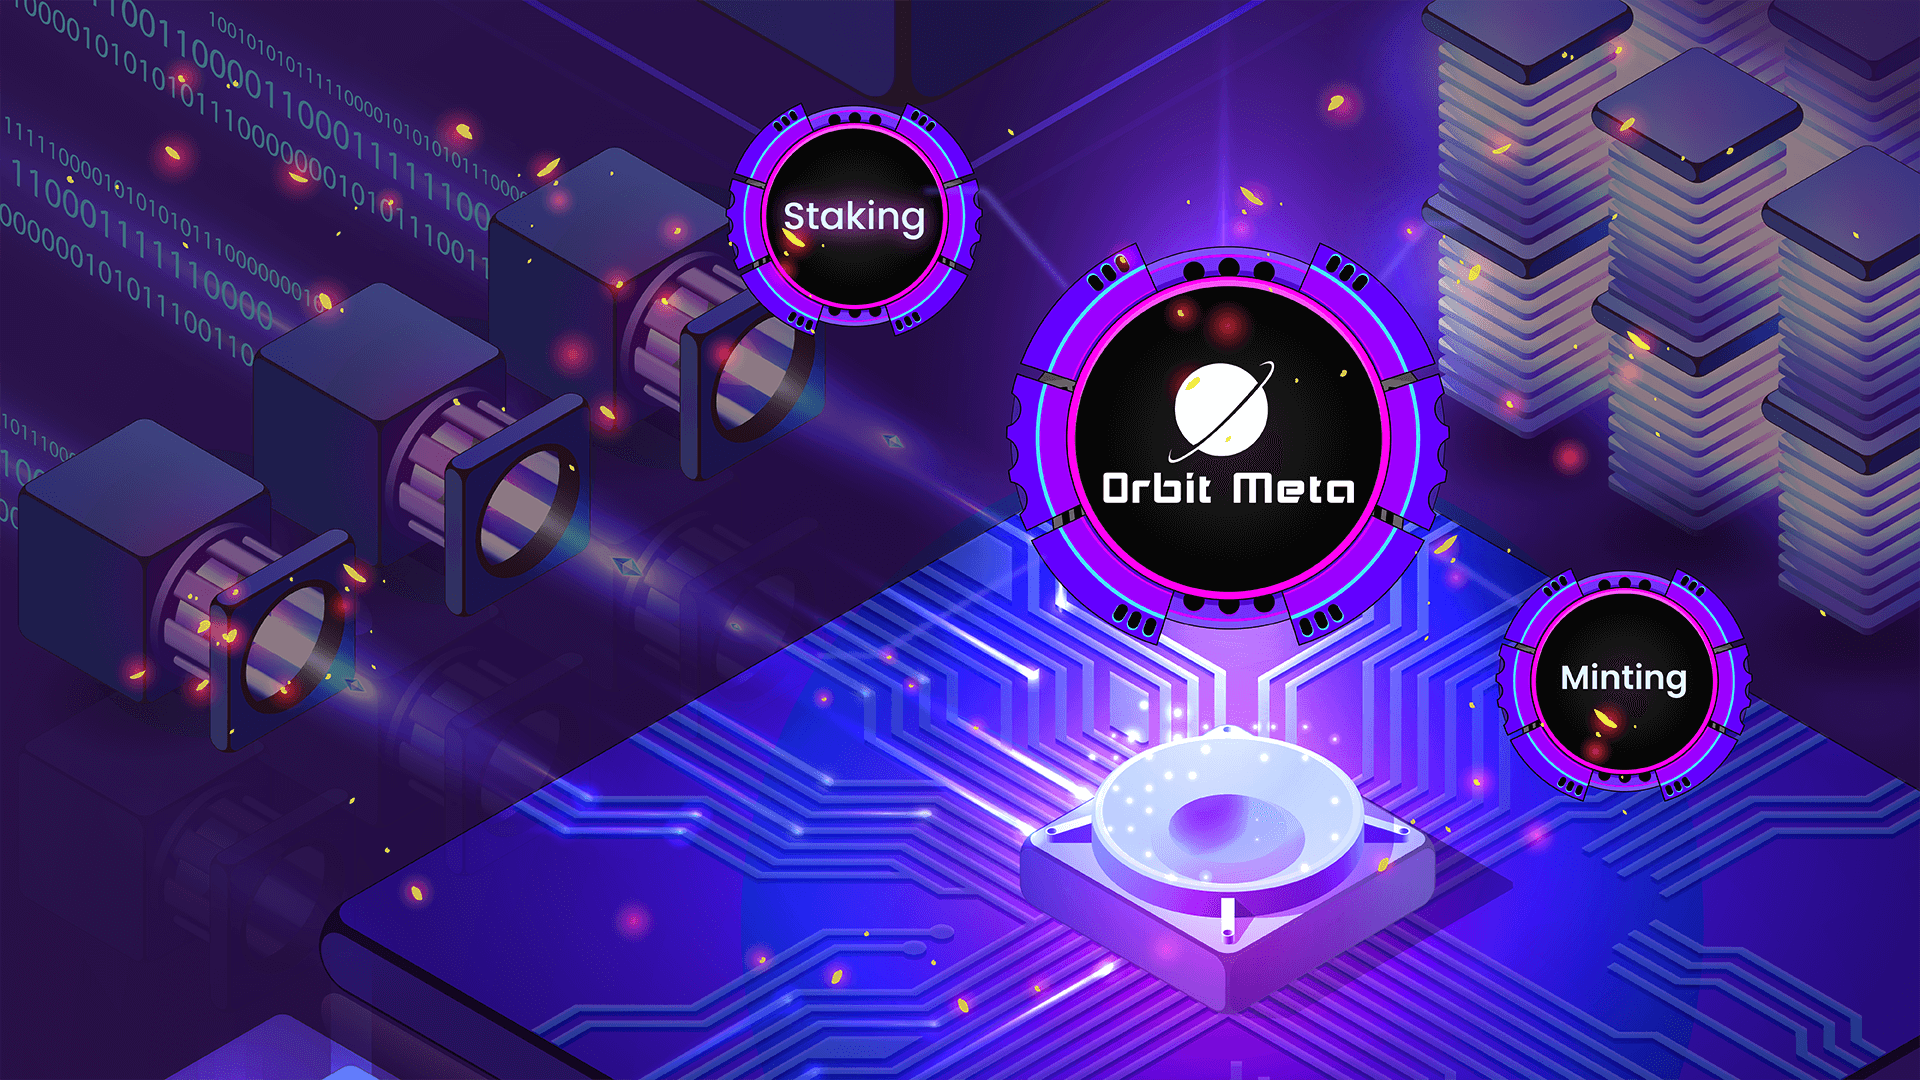
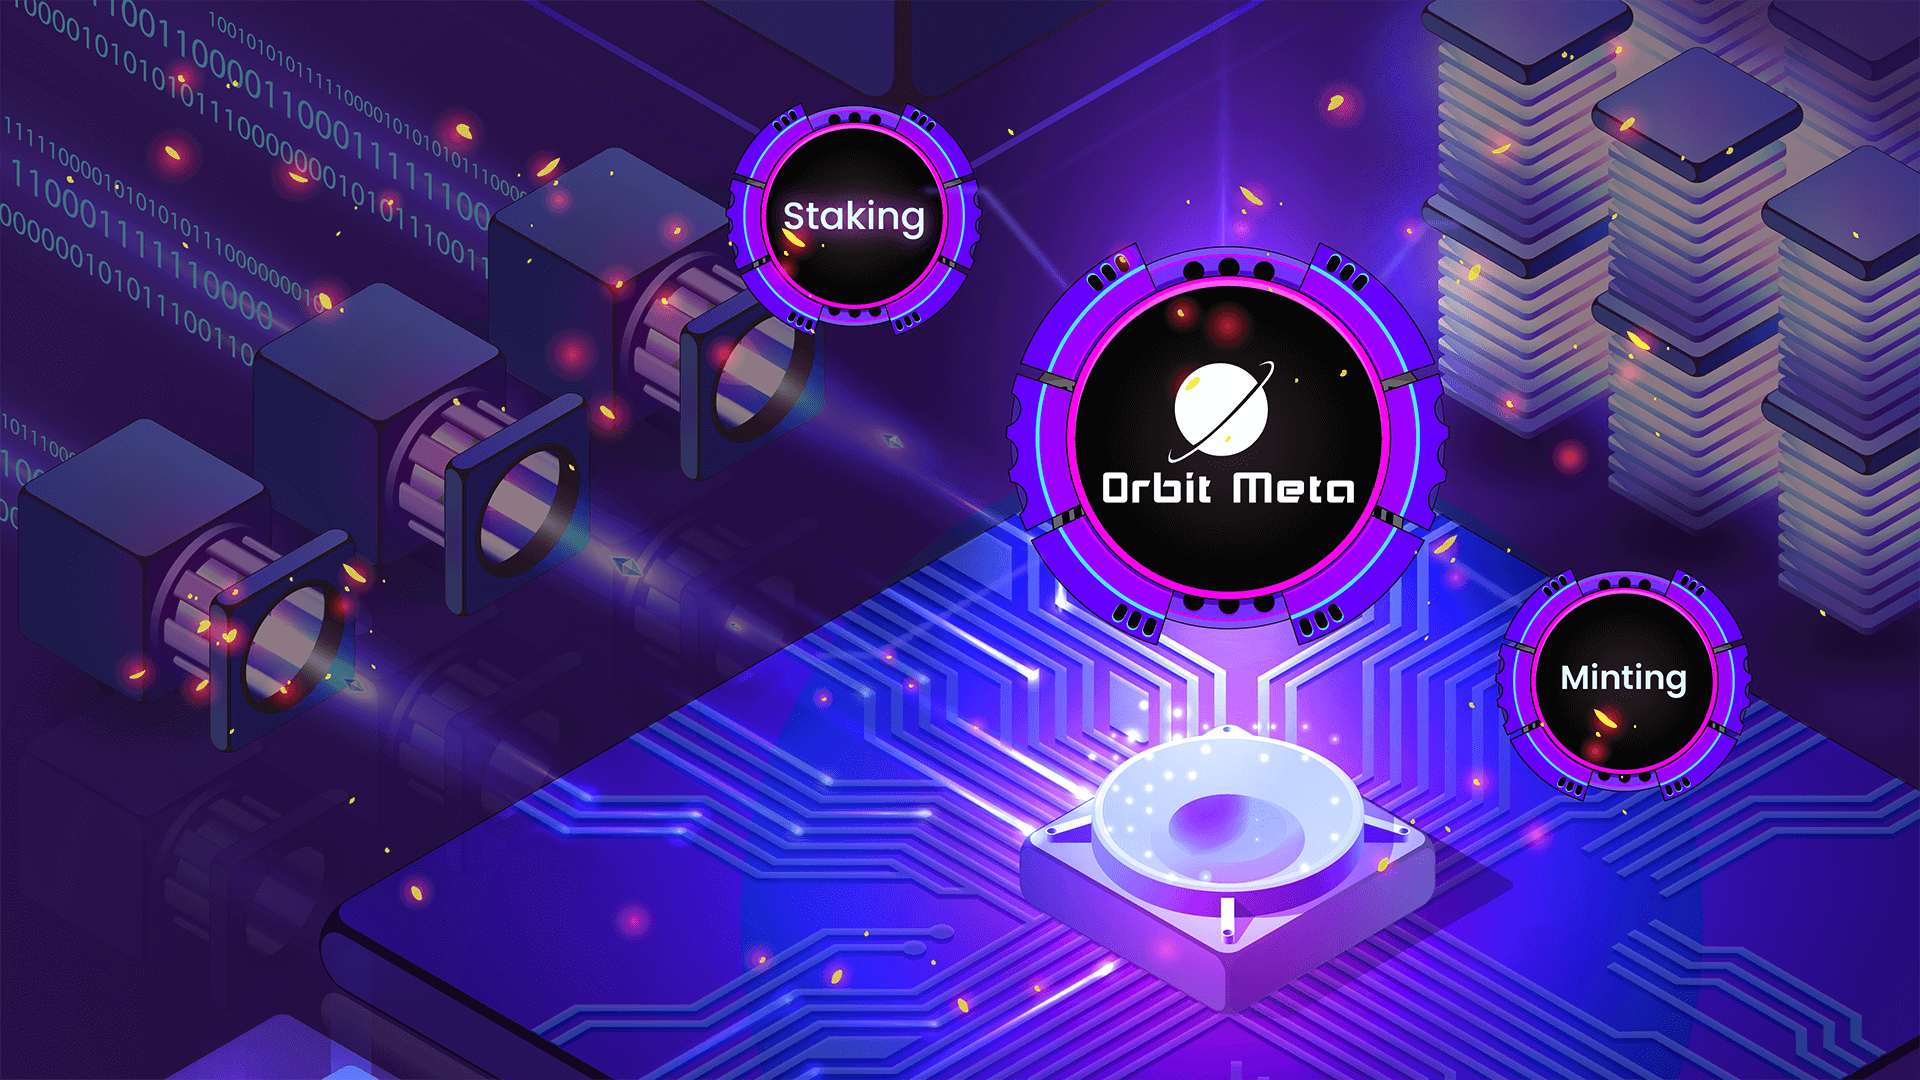
Update Image

diff --git a/index.html b/index.html
@@ -138,7 +138,7 @@
             </div>
             <div class="slider__item__wrap w-100">
               <div class="slider__item__thumb dnfix__thumb">
-                <img src="images/home-paradigm-3.jpg" alt="">
+                <img src="images/home-paradigm-3.png" alt="">
               </div>
               <div class="slider__item__meta">
                 <!-- <h3 class="slider__item__title">THE NEW PARADIGM</h3> -->
@@ -148,7 +148,7 @@
             </div>
             <div class="slider__item__wrap w-100">
               <div class="slider__item__thumb dnfix__thumb">
-                <img src="images/home-paradigm-4.jpg" alt="">
+                <img src="images/home-paradigm-4.png" alt="">
               </div>
               <div class="slider__item__meta">
                 <!-- <h3 class="slider__item__title">THE NEW PARADIGM</h3> -->
@@ -158,7 +158,7 @@
             </div>
             <div class="slider__item__wrap w-100">
               <div class="slider__item__thumb dnfix__thumb">
-                <img src="images/home-paradigm-5.jpg" alt="">
+                <img src="images/home-paradigm-5.png" alt="">
               </div>
               <div class="slider__item__meta">
                 <!-- <h3 class="slider__item__title">THE NEW PARADIGM</h3> -->
@@ -168,7 +168,7 @@
             </div>
             <div class="slider__item__wrap w-100">
               <div class="slider__item__thumb dnfix__thumb">
-                <img src="images/home-paradigm-6.jpg" alt="">
+                <img src="images/home-paradigm-6.png" alt="">
               </div>
               <div class="slider__item__meta">
                 <!-- <h3 class="slider__item__title">THE NEW PARADIGM</h3> -->
